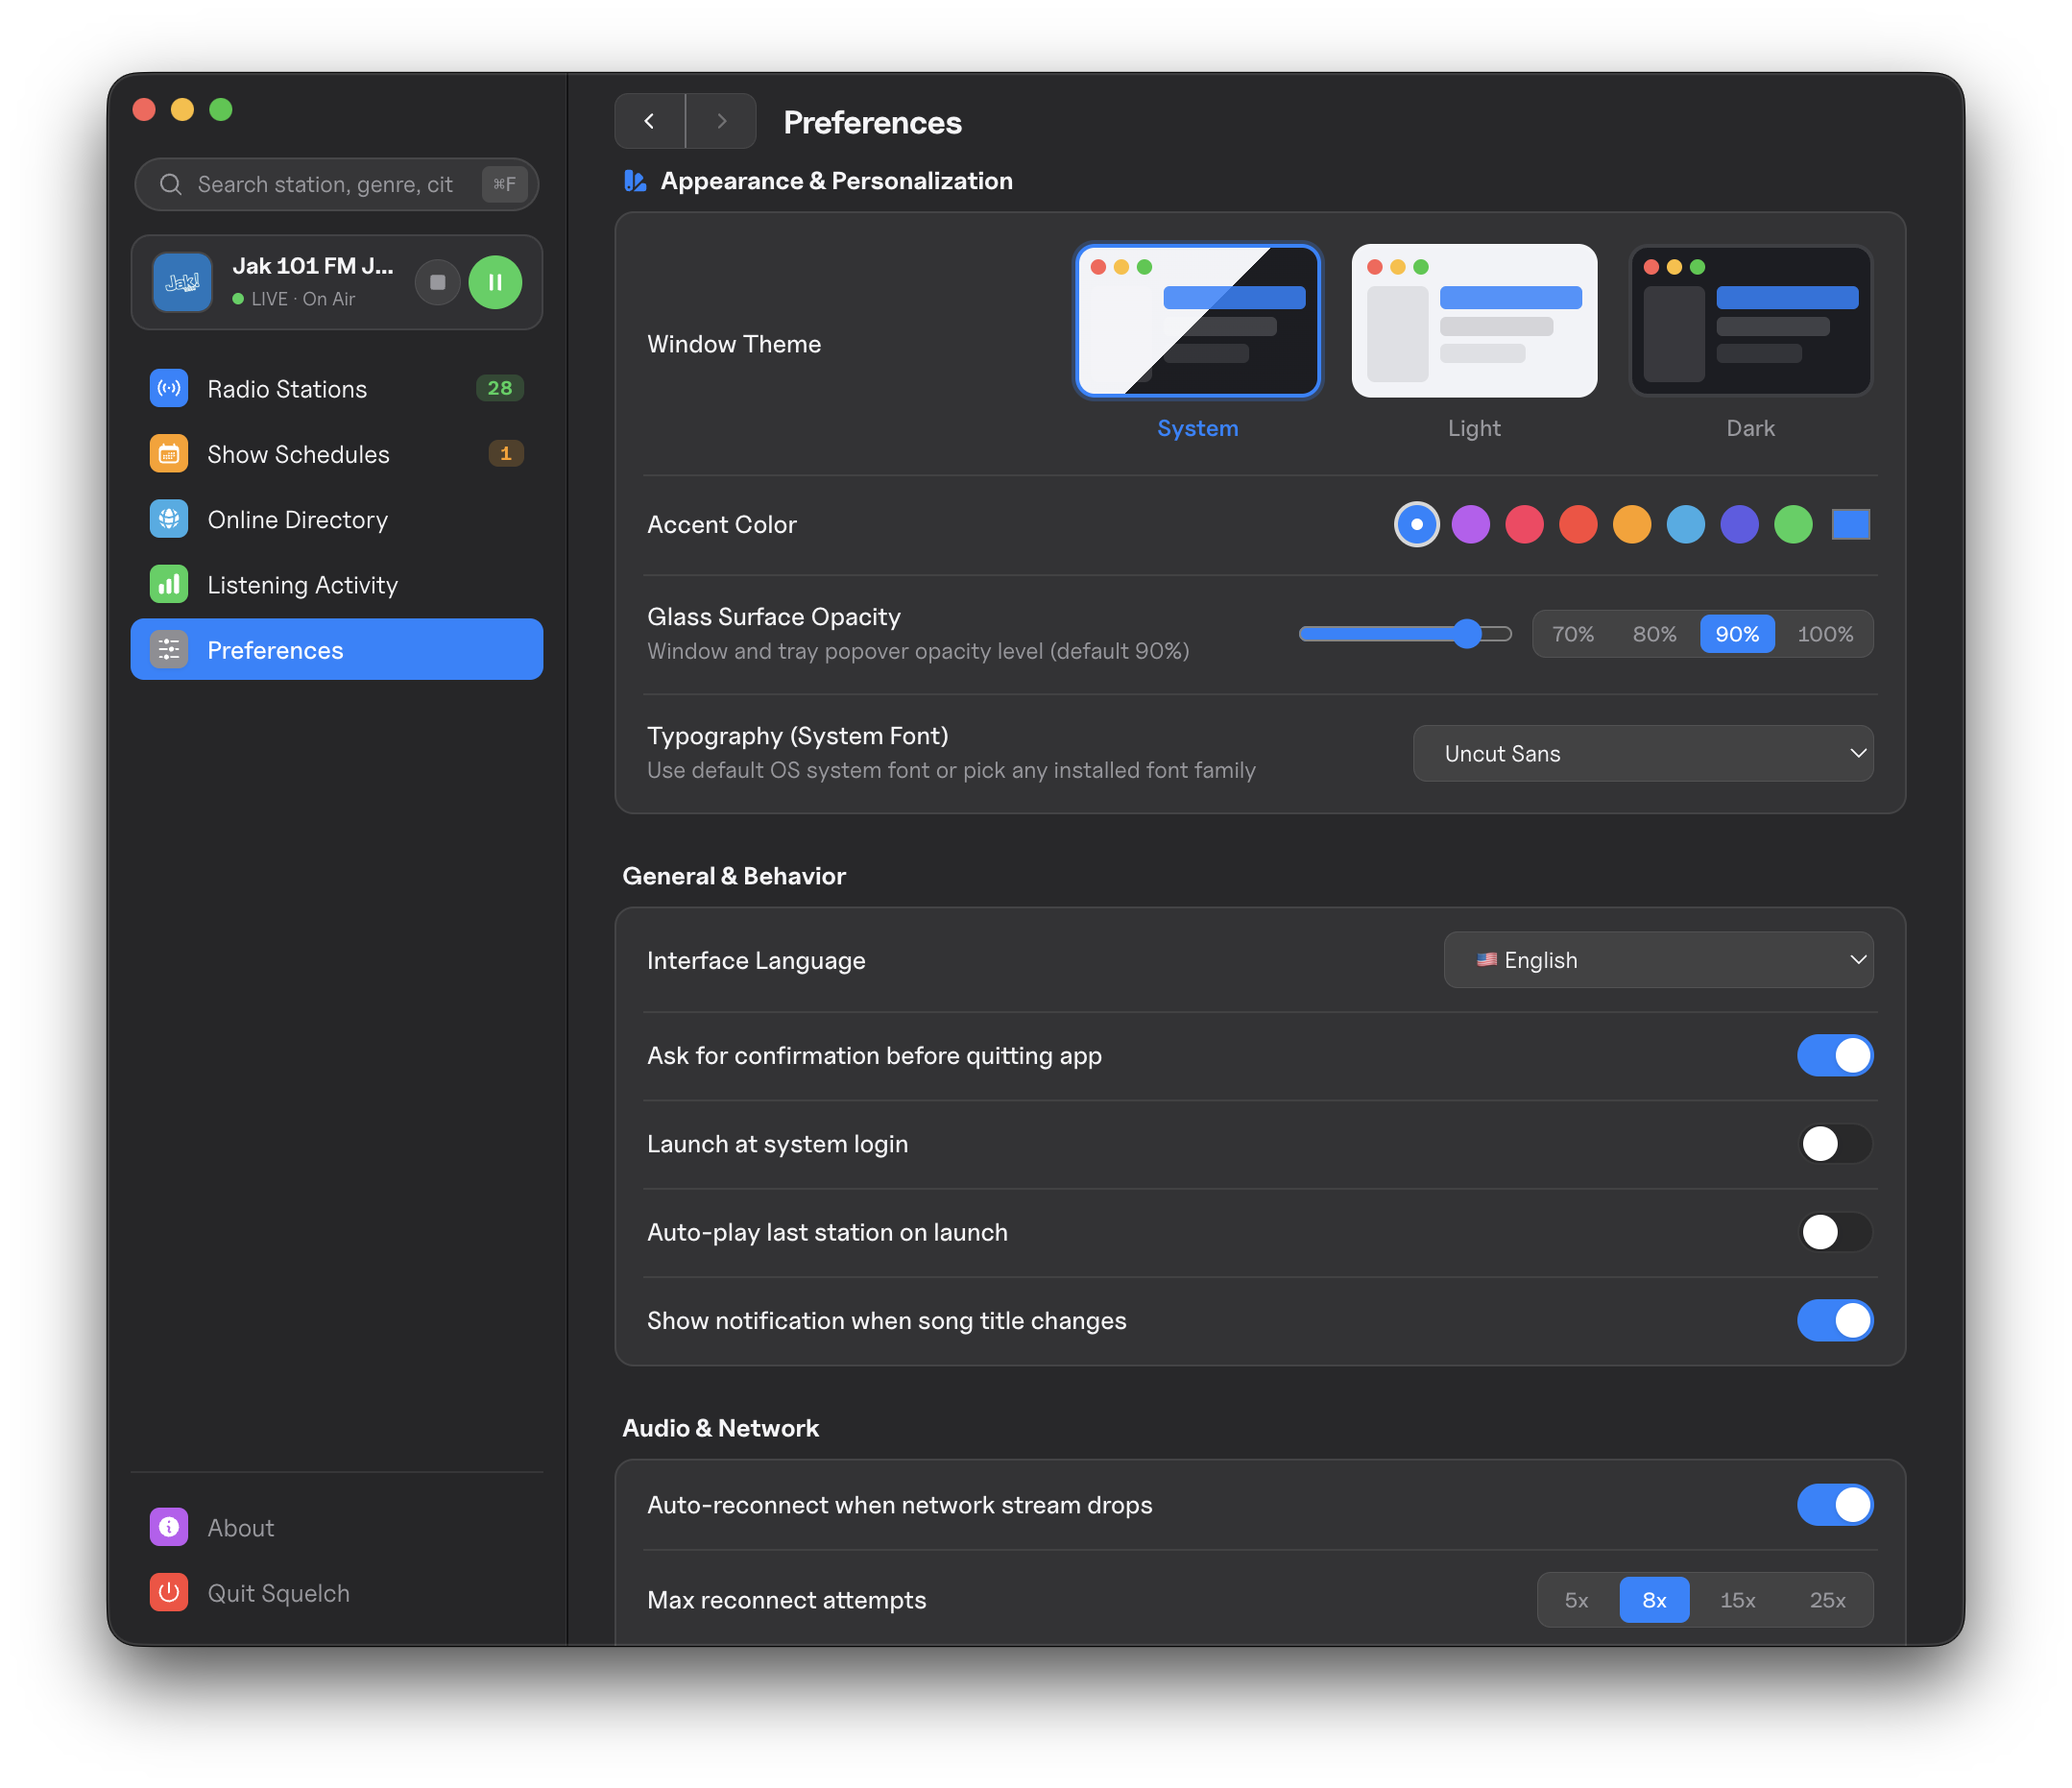
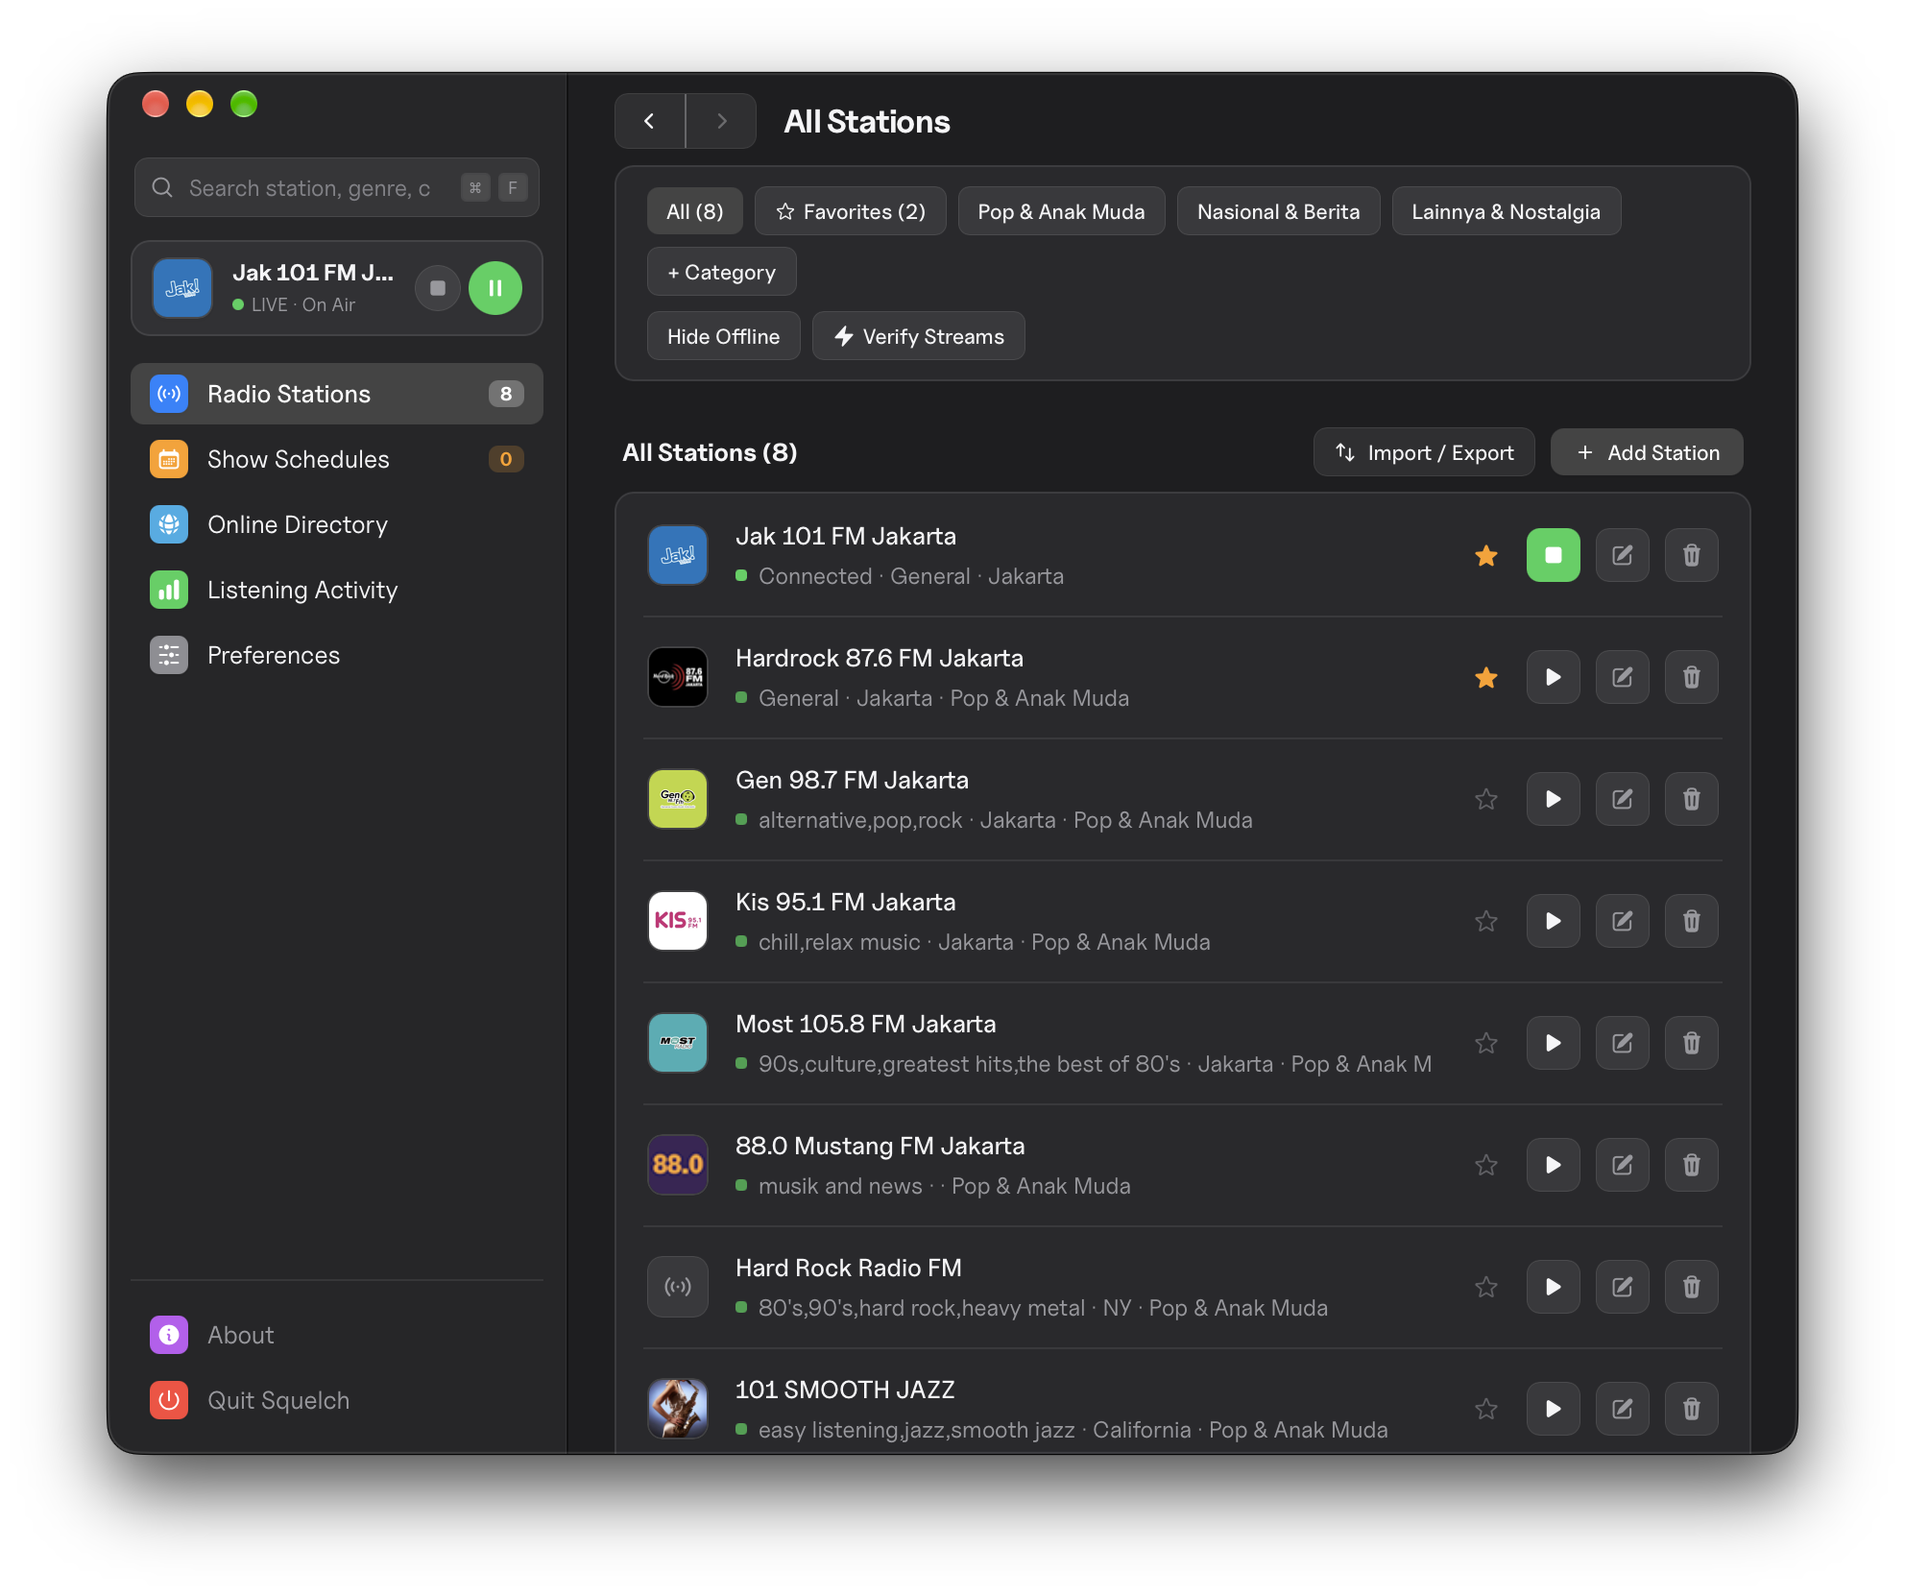
docs: update UI showcase screenshots, install script fallback, and version badges to v0.1.1

diff --git a/src/app/App.tsx b/src/app/App.tsx
@@ -1207,7 +1207,7 @@ export const App: React.FC = () => {
                                 Squelch
                             </h2>
                             <span className="px-2 py-0.5 rounded-[6px] bg-accent/15 text-accent text-[11px] font-bold tabular-nums">
-                                v0.1.0
+                                v0.1.1
                             </span>
                         </div>
                         <div className="text-[13px] font-medium text-accent mt-0.5">
@@ -3899,7 +3899,7 @@ export const App: React.FC = () => {
                                         Squelch
                                     </h2>
                                     <span className="px-2 py-0.5 rounded-[6px] bg-accent/15 text-accent text-[11px] font-bold tabular-nums">
-                                        v0.1.0
+                                        v0.1.1
                                     </span>
                                 </div>
                                 <div className="text-[13px] font-medium text-accent mt-0.5">
@@ -4446,7 +4446,7 @@ export const App: React.FC = () => {
                                     Squelch
                                 </h2>
                                 <span className="px-2 py-0.5 rounded-[5px] bg-accent/15 text-accent text-[11px] font-bold tabular-nums">
-                                    v0.1.0
+                                    v0.1.1
                                 </span>
                             </div>
                             <div className="text-[12px] font-medium text-accent mt-0.5">

diff --git a/src/bridge/tauri-bridge.ts b/src/bridge/tauri-bridge.ts
@@ -1113,7 +1113,7 @@ export function initTauriBridge() {
                 const cfg: any = await invoke('get_settings');
                 const report = {
                     timestamp: new Date().toISOString(),
-                    app: 'Squelch v0.1.0 (Tauri v2 macOS)',
+                    app: 'Squelch v0.1.1 (Tauri v2 macOS)',
                     platform: 'darwin (macOS)',
                     userAgent: navigator.userAgent,
                     player: {
